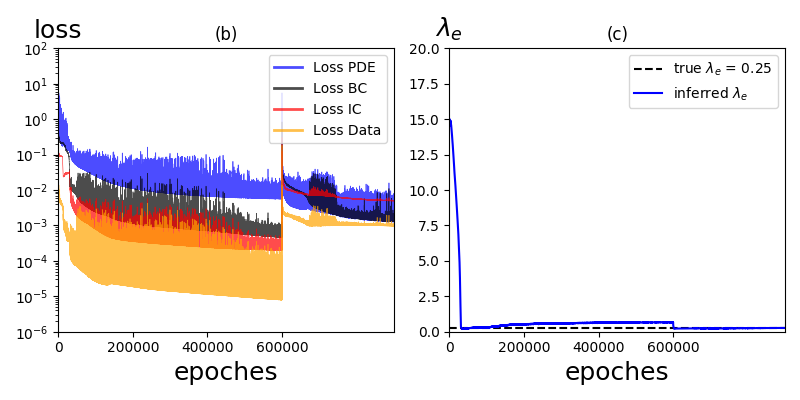
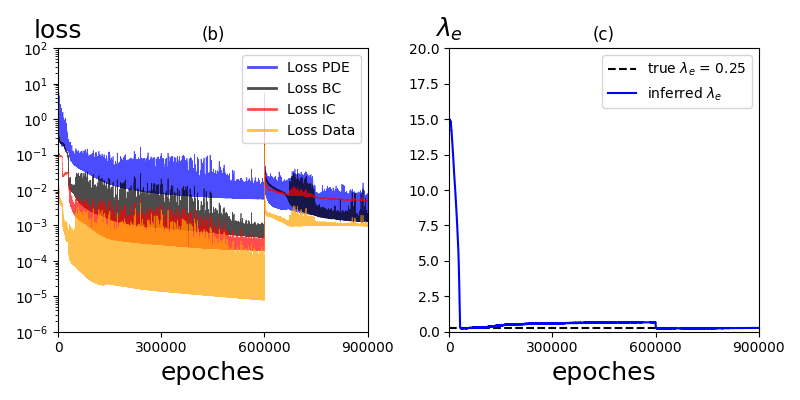
.

diff --git a/Thrombus/Plot/membrane/plot_his.py b/Thrombus/Plot/membrane/plot_his.py
@@ -21,7 +21,7 @@ def main():
     ax1.set_ylabel('loss', fontsize=18, rotation="horizontal")
     ax1.set_ylim([1e-6, 1e2])
     ax1.set_xlim([0, 900000])
-    ax1.set_xticks(np.linspace(0, 600000, 4))
+    ax1.set_xticks(np.linspace(0, 900000, 4))
     ax1.set_title('(b)')
     ax1.yaxis.set_label_coords(0.0,1.02)
     leg = ax1.legend()
@@ -37,7 +37,7 @@ def main():
     ax2.set_ylabel('$\lambda_{e}$', fontsize=18, rotation="horizontal")
     ax2.set_xlim([0, 900000])
     ax2.set_ylim([0, 20])
-    ax2.set_xticks(np.linspace(0, 600000, 4))
+    ax2.set_xticks(np.linspace(0, 900000, 4))
     ax2.set_title('(c)')
     ax2.legend()
     ax2.yaxis.set_label_coords(0.0,1.02)
